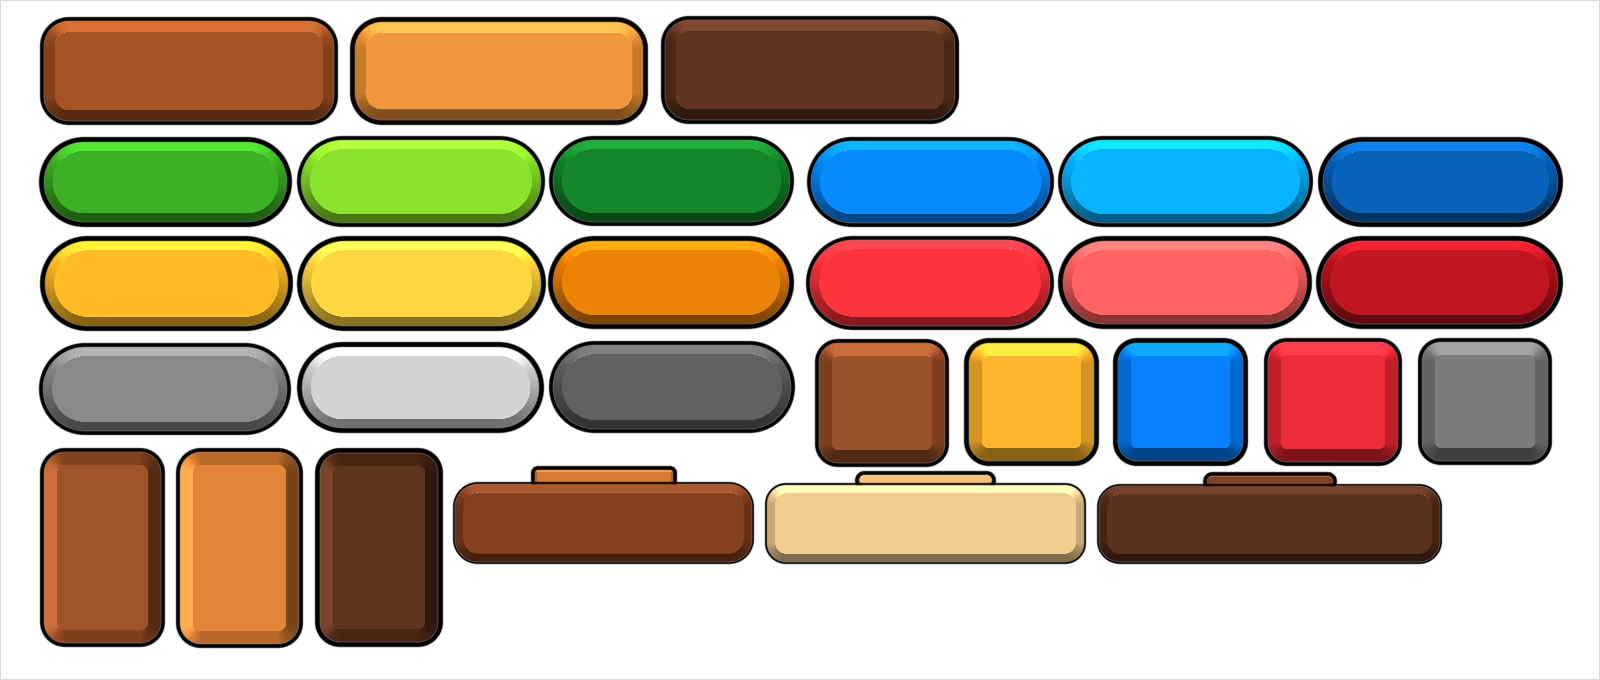
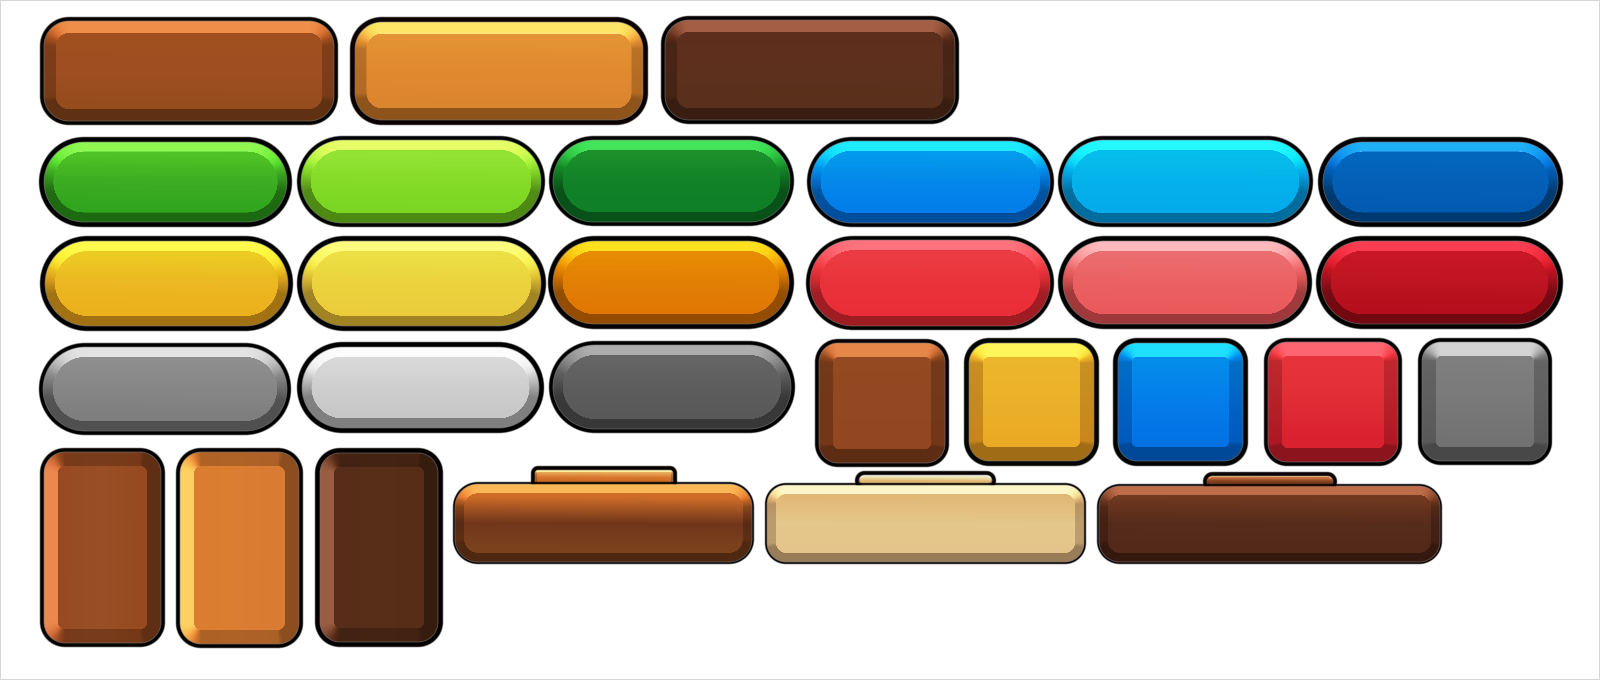
feat(ui): a lit face can be a run of colours, not one
A painted button's body is graded — light at the top, deep at the bottom —
and that grade is a change of colour, not a change of brightness: the light
end is a warmer, yellower green than the dark end. No amount of lighting one
flat colour produces it, which is why the lit faces here have been reading as
flat plastic next to real art.

So `relief` takes a `faceRun` alongside `face`: a run of any number of colours,
lit exactly as one colour was. It goes the way the light falls, so turning the
light still turns everything at once. Where a face has no run, or the atlas is
full, it falls back to the single colour — the same fallback a many-stop
gradient already has.

A lit quad samples no texture of its own, so the run rides in the texture
coordinate and the shadow spread, both of which it was leaving empty.

Two fixes to the light itself, both visible on their own:

The shading is now measured against what facing the light squarely would give,
rather than against nothing. Before, the light's own elevation quietly decided
how much difference it made, so a high light left everything nearly flat and
the strength dial did very little.

Bright ends roll off into white instead of stopping dead at it. Without that
the channel nearest full — green, in almost every green button — flattens to
255 while the others keep climbing, so a lit edge slid towards cyan and ended
in a hard white bar with an edge on it.

Measured against the reference sheet, down the middle of three buttons: the
[…]

diff --git a/composegl-render/src/commonMain/kotlin/dev/wildware/composegl/render/gl/Glsl.kt b/composegl-render/src/commonMain/kotlin/dev/wildware/composegl/render/gl/Glsl.kt
@@ -194,9 +194,15 @@ object GlslSources {
             // A chamfer climbs at one angle and then stops dead, which is the crease along the top
             // of it; softened over the last of the climb so the crease is a line, not a staircase.
             if (kind < 5.5) return 1.0 - smoothstep(0.96, 1.0, along);
-            if (kind < 6.5) return rest / max(sqrt(1.0 - rest * rest), 0.08);  // fillet: rolled
+            // A fillet rolls over, and at the very edge of the roll the surface is nearly on its
+            // side. Left alone that is a normal pointing almost outwards, which catches the light
+            // in a hard white line along the rim; held to a sane angle it is a rolled edge.
+            if (kind < 6.5) return rest / max(sqrt(1.0 - rest * rest), 0.42);
             return rest * 1.6;                                           // dome: curving all the way
         }
+
+        // Where a lit surface stops climbing straight towards white and starts easing into it.
+        const float Knee = 0.8;
 
         void main() {
             vec4 sampled = texture2D(u_texture, v_texCoord);
@@ -235,32 +241,67 @@ object GlslSources {
                 // How polished the surface is decides how tight the shine is: a low number spreads
                 // it across the whole lit side, which is wet-looking plastic, and a high one draws
                 // it to a point, which is glass. It rides in the fill colour's red, unused here.
-                float tightness = mix(2.0, 90.0, clamp(v_color.r, 0.0, 1.0));
+                float tightness = mix(2.0, 60.0, clamp(v_color.r, 0.0, 1.0));
                 float shine = pow(max(dot(normal, halfway), 0.0), tightness) * v_shadowColor.w;
                 float strength = v_gradient.z;
-                float shade = (facing - light.z) * strength;
+                // Measured against what facing the light squarely would give, rather than against
+                // nothing: a flat face is neither lit nor shaded whatever height the light is at,
+                // and a surface turned fully towards it gets the whole of the strength asked for.
+                // Without this the light's own elevation quietly decides how much difference it
+                // makes, and a high light leaves everything nearly flat.
+                float reach = max(1.0 - light.z, 0.2);
+                float shade = clamp((facing - light.z) / reach, -1.0, 1.0) * strength;
 
                 // Given a colour of its own, the light is put on that colour: a lit face is the
                 // same green made brighter, which is what a painted button is. Laid over somebody
                 // else's fill instead, all that can be added is white and black, and white takes
                 // the colour out of a highlight — the thing that makes a drawn button look washed.
                 if (v_shape.x > 0.5) {
+                    // The face's own colour, which may be a run of colours rather than one. Painted
+                    // art almost always grades the body of a button from light at the top to deep at
+                    // the bottom, and that grade is not a brightness: the light end is a different,
+                    // yellower green. Lighting cannot invent that, so the artist names it and the
+                    // light goes on top. The run lies along one row of the atlas, so only u moves,
+                    // and it runs the way the light falls — the same light that shapes the edge.
+                    vec3 base = v_borderColor.rgb;
+                    if (v_shape.y > 0.0) {
+                        // Zero at the lit end of the box and one at the far end, measured along the
+                        // light rather than down the screen, so turning the light turns the run too.
+                        vec2 axis = light.xy;
+                        float span = max(length(axis), 0.0001);
+                        vec2 unit = axis / span;
+                        float across = max(abs(unit.x) * v_halfSize.x + abs(unit.y) * v_halfSize.y, 0.0001);
+                        float down = clamp(0.5 + dot(v_local, unit) / across * 0.5, 0.0, 1.0);
+                        vec2 at = vec2(v_texCoord.x + v_shape.y * down, v_texCoord.y);
+                        vec4 strip = texture2D(u_texture, at);
+                        base = strip.a > 0.0 ? strip.rgb / strip.a : strip.rgb;
+                    }
                     // Lighting a colour is not one multiplication. A lit face climbs fast and
                     // carries a little white with it, the way a bright surface washes towards the
                     // colour of the light; a shaded one falls away more gently and keeps its hue,
                     // because nothing is washing it out. Painted art does both, and a single
                     // multiply in either direction is what makes a drawn button look plastic.
-                    float gain = shade > 0.0 ? 1.0 + shade * 2.2 : 1.0 + shade * 0.9;
-                    vec3 face = v_borderColor.rgb * clamp(gain, 0.0, 4.0);
-                    face = mix(face, vec3(1.0), clamp(shade, 0.0, 1.0) * 0.35);
-                    gl_FragColor = vec4(clamp(face + shine, 0.0, 1.0), v_borderColor.a * coverage);
+                    float gain = shade > 0.0 ? 1.0 + shade * 1.6 : 1.0 + shade * 0.9;
+                    vec3 face = base * clamp(gain, 0.0, 4.0);
+                    face = mix(face, vec3(1.0), clamp(shade, 0.0, 1.0) * 0.25);
+                    // Screened rather than added: a shine climbs towards white and slows as it
+                    // gets there, instead of clipping to a flat white stripe with an edge on it.
+                    face = face + (1.0 - face) * shine;
+                    // Bright ends roll off instead of stopping dead at white. Without this the
+                    // channel nearest full — green, in almost every green button — flattens to 255
+                    // while the others keep climbing, so a lit edge slides towards cyan and then
+                    // ends in a hard white bar with a visible edge on it. Below the knee nothing
+                    // changes at all, so ordinary colour is untouched.
+                    vec3 over = max(face - Knee, 0.0) / (1.0 - Knee);
+                    face = min(face, 1.0 - (1.0 - Knee) * exp(-over));
+                    gl_FragColor = vec4(clamp(face, 0.0, 1.0), v_borderColor.a * coverage);
                     return;
                 }
 
                 vec4 lift = vec4(1.0, 1.0, 1.0, clamp(shade, 0.0, 1.0));
                 vec4 dark = vec4(0.0, 0.0, 0.0, clamp(-shade, 0.0, 1.0));
                 vec4 relief = over(lift, dark);
-                relief.a = max(relief.a, clamp(shine, 0.0, 1.0));
+                relief.a = max(relief.a, clamp(shine, 0.0, 0.8));
                 relief.rgb = mix(relief.rgb, vec3(1.0), clamp(shine, 0.0, 1.0));
                 gl_FragColor = vec4(relief.rgb, relief.a * coverage);
                 return;

diff --git a/composegl-lwjgl3/src/test/kotlin/dev/wildware/composegl/lwjgl3/ReliefGlTest.kt b/composegl-lwjgl3/src/test/kotlin/dev/wildware/composegl/lwjgl3/ReliefGlTest.kt
@@ -3,6 +3,7 @@ package dev.wildware.composegl.lwjgl3
 import dev.wildware.composegl.ui.geometry.Corners
 import dev.wildware.composegl.ui.geometry.Rect
 import dev.wildware.composegl.ui.geometry.Size
+import dev.wildware.composegl.ui.graphics.Brush
 import dev.wildware.composegl.ui.graphics.Colour
 import dev.wildware.composegl.ui.graphics.Relief
 import dev.wildware.composegl.ui.layout.ScalePolicy
@@ -172,5 +173,45 @@ class ReliefGlTest {
             saturation(lit) > saturation(over) + 20,
             "the lit face keeps its green where the overlay washes it: ${lit.toList()} against ${over.toList()}",
         )
+    }
+
+    @Test
+    fun `a face given a run of colours grades across the body, and never clips to white`() {
+        val top = Colour.rgb(0x6ED23C)
+        val bottom = Colour.rgb(0x2E8C18)
+        val run = Brush.Ramp(listOf(Brush.Stop(0.2f, top), Brush.Stop(0.8f, bottom)))
+        // With an atlas: a run of colours is baked onto it, and without one the face falls back to
+        // the single colour, exactly as a many-stop gradient does.
+        val frame = Gl.render {
+            val canvas = GlCanvas(StbFonts(), Gl.gl)
+            try {
+                Gl.gl.clearColor(0f, 0f, 0f, 1f)
+                Gl.gl.clear(GL11.GL_COLOR_BUFFER_BIT)
+                canvas.begin(viewport)
+                canvas.relief(
+                    box, Corners.all(16f), Relief.Chamfer, depth = 18f, light = 90f,
+                    strength = 0.5f, gloss = 0.9f, polish = 0.6f, face = top, faceRun = run,
+                )
+                canvas.end()
+                Gl.readPixels(Gl.size, Gl.size)
+            } finally {
+                canvas.close()
+            }
+        }
+        fun at(y: Int) = frame[y * Gl.size + 110].let {
+            intArrayOf(it shr 16 and 0xFF, it shr 8 and 0xFF, it and 0xFF)
+        }
+
+        // Down the middle of the body, clear of the lit edge at either end.
+        val high = at(70)
+        val low = at(110)
+        assertTrue(high[1] > low[1] + 15, "the body grades: ${high.toList()} at the top, ${low.toList()} lower")
+        assertTrue(low[0] < high[0], "and in every channel, not just the brightest")
+
+        // The whole shape, including the lit edge and the shine on it: a rolled-off highlight keeps
+        // its colour, where one that clips goes flat white and takes the hue with it.
+        val white = (40..140).flatMap { y -> (50..170).map { x -> frame[y * Gl.size + x] } }
+            .count { it shr 16 and 0xFF > 250 && it shr 8 and 0xFF > 250 && it and 0xFF > 250 }
+        assertTrue(white == 0, "nothing burns out to white, but $white pixels did")
     }
 }

diff --git a/composegl-demo/src/main/kotlin/dev/wildware/composegl/demo/docs/MouldedSheet.kt b/composegl-demo/src/main/kotlin/dev/wildware/composegl/demo/docs/MouldedSheet.kt
@@ -38,10 +38,13 @@ internal fun MouldedSheet() {
 private fun Button(piece: Sheet.Piece) {
     val line = piece.outline
     val corner = (piece.corner - line).coerceAtLeast(0f)
-    // Three colours off the original's face, and the light does the rest.
-    val face = listOf(colourAt(piece, 0.16f), colourAt(piece, 0.55f), colourAt(piece, 0.9f))
+    // Three colours off the original's body, and the light does the rest. The body only: the bright
+    // band along the top is the lit edge, and a run that included it would smooth out the crease
+    // the chamfer is there to make.
+    // Each colour stays where it was read, rather than being spread out evenly, so the run holds
+    // its end colours past the last reading instead of carrying on down into the dark lip.
     val run = Brush.Ramp(
-        Brush.evenly(face).let { (it as Brush.Ramp).stops },
+        listOf(0.18f, 0.5f, 0.8f).map { Brush.Stop(it, colourAt(piece, it)) },
         degrees = if (piece.across) 0f else 90f,
     )
     Box(
@@ -60,7 +63,10 @@ private fun Button(piece: Sheet.Piece) {
                 strength = Tuning[2],
                 gloss = Tuning[3],
                 polish = Tuning[4],
-                face = colourAt(piece, 0.55f),
+                // The original's own body colours, lit: the graded body a painted button has is a
+                // change of colour, not a change of brightness, so no amount of lighting one flat
+                // green will make it. The light shapes the edge and puts the shine on top.
+                faceRun = run,
             )
             .borderOutside(Colour.rgb(piece.ink), width = line, corners = Corners.all(corner)),
     )
@@ -72,7 +78,7 @@ private fun Button(piece: Sheet.Piece) {
  *
  * The defaults are where a search against the original settled.
  */
-private val Tuning: FloatArray = (System.getenv("COMPOSEGL_MOULD") ?: "0.11,52,0.75,0.3,0.45,0")
+private val Tuning: FloatArray = (System.getenv("COMPOSEGL_MOULD") ?: "0.12,42,0.4,0.3,0.6,0")
     .split(',').map { it.trim().toFloat() }.toFloatArray()
 
 /** The colour a fraction of the way down the original's face. */

diff --git a/composegl-ui/src/commonMain/kotlin/dev/wildware/composegl/ui/modifier/Elements.kt b/composegl-ui/src/commonMain/kotlin/dev/wildware/composegl/ui/modifier/Elements.kt
@@ -275,6 +275,7 @@ data class ReliefElement(
     val gloss: Float = 0.3f,
     val polish: Float = 0.5f,
     val face: Colour? = null,
+    val faceRun: Brush.Ramp? = null,
 ) : Modifier.Element {
     init {
         require(polish in 0f..1f) { "a surface is between wet and glassy, not $polish" }
@@ -1090,6 +1091,9 @@ fun Modifier.bevel(
  * @param gloss how bright the shine is where the surface faces the light squarely.
  * @param polish how tight that shine is: low spreads it across the whole lit side, which is wet
  *   plastic, and high draws it to a point, which is glass. Drawn game art is usually low.
+ * @param faceRun the face as a run of colours rather than one, lit the same way: the graded body a
+ *   painted button has, which no amount of lighting one flat colour will produce. It runs the way
+ *   the light falls. Overrides [face].
  * @param face the colour to light. Give it the button's colour and leave the background off: a
  *   highlight is then that colour made brighter, which is what a painted button is. Left out, the
  *   light lies over whatever fill is underneath and can only add white, which washes the colour
@@ -1106,7 +1110,8 @@ fun Modifier.relief(
     gloss: Float = 0.3f,
     polish: Float = 0.5f,
     face: Colour? = null,
-) = relief(Corners.single(corner), shape, depth, light, elevation, strength, gloss, polish, face)
+    faceRun: Brush.Ramp? = null,
+) = relief(Corners.single(corner), shape, depth, light, elevation, strength, gloss, polish, face, faceRun)
 
 /** The same, with its own radius on each corner. */
 @Suppress("LongParameterList")
@@ -1120,7 +1125,8 @@ fun Modifier.relief(
     gloss: Float = 0.3f,
     polish: Float = 0.5f,
     face: Colour? = null,
-) = then(ReliefElement(corners, shape, depth, light, elevation, strength, gloss, polish, face))
+    faceRun: Brush.Ramp? = null,
+) = then(ReliefElement(corners, shape, depth, light, elevation, strength, gloss, polish, face, faceRun))
 
 /**
  * One light, lighting the whole box: the bevel, the shine and the shadow all agree about it.

diff --git a/composegl-render/src/commonMain/kotlin/dev/wildware/composegl/render/RenderCanvas.kt b/composegl-render/src/commonMain/kotlin/dev/wildware/composegl/render/RenderCanvas.kt
@@ -358,15 +358,22 @@ open class RenderCanvas protected constructor(
         gloss: Float,
         polish: Float,
         face: Colour,
+        faceRun: Brush.Ramp?,
     ) {
         if (state.isHidden || rect.isEmpty || depth <= 0f || strength <= 0f) return
         val box = state.map(rect)
+        // Where the run of colours sits on the atlas, if there is one and it fitted. A lit quad
+        // samples no texture of its own, so its texture coordinate is free to point at the strip;
+        // if the atlas is full the face falls back to the one colour, which is the run's first.
+        val run = faceRun?.let { atlas?.ramps?.spotFor(it) }
+        val runPage = run?.page
+        val runSize = runPage?.size?.toFloat() ?: 1f
         val grow = state.transformScale
         val radians = light * PiOver180
         val high = elevation * PiOver180
         val flat = cos(high)
         batch().relief(
-            white = white(),
+            white = if (runPage != null) WhiteSpot(runPage.texture(device), 0f, 0f) else white(),
             left = box.left,
             bottom = flip(box.bottom),
             width = box.width,
@@ -388,7 +395,10 @@ open class RenderCanvas protected constructor(
             lightZ = sin(high),
             gloss = gloss,
             polish = polish,
-            face = face.inForce(),
+            face = (if (run != null) Colour.White else face).inForce(),
+            faceU = if (run != null) (run.x + 0.5f) / runSize else 0f,
+            faceV = if (run != null) (run.y + 0.5f) / runSize else 0f,
+            faceWidth = if (run != null) (GradientRamps.Texels - 1f) / runSize else 0f,
             aa = antialias,
         )
     }

diff --git a/composegl-render/src/commonMain/kotlin/dev/wildware/composegl/render/QuadBatch.kt b/composegl-render/src/commonMain/kotlin/dev/wildware/composegl/render/QuadBatch.kt
@@ -200,6 +200,9 @@ class QuadBatch(private val device: GpuDevice, private val maxQuads: Int = 2048)
         gloss: Float,
         polish: Float,
         face: Colour,
+        faceU: Float,
+        faceV: Float,
+        faceWidth: Float,
         aa: Float,
     ) {
         val halfWidth = width / 2f
@@ -218,7 +221,9 @@ class QuadBatch(private val device: GpuDevice, private val maxQuads: Int = 2048)
             top = bottom + height + aa,
             centreX = left + halfWidth,
             centreY = bottom + halfHeight,
-            u = white.u, v = white.v, u2 = white.u, v2 = white.v,
+            // Where the face's run of colours starts on the atlas, if it has one. A lit quad has
+            // no texture of its own, so the texture coordinate is free to point at the strip.
+            u = faceU, v = faceV, u2 = faceU, v2 = faceV,
             // Opaque white but for the red, which carries how polished the surface is.
             fill = Colour(255, (polish.coerceIn(0f, 1f) * 255f).toInt(), 255, 255),
             border = face,
@@ -234,7 +239,9 @@ class QuadBatch(private val device: GpuDevice, private val maxQuads: Int = 2048)
             radii = radii,
             // A width of one says the quad paints the face colour rather than lying over a fill.
             borderWidth = if (face.alpha > 0) 1f else 0f,
-            shadowSpread = 0f,
+            // How far along the atlas row the run of colours reaches. Zero says the face is one
+            // colour; a lit quad casts no shadow, so the spread is free to say it.
+            shadowSpread = faceWidth,
             aa = aa,
             gradient = kind,
             gradientX = bevel,

diff --git a/composegl-ui/src/commonMain/kotlin/dev/wildware/composegl/ui/graphics/UiCanvas.kt b/composegl-ui/src/commonMain/kotlin/dev/wildware/composegl/ui/graphics/UiCanvas.kt
@@ -204,6 +204,10 @@ interface UiCanvas {
      *   Given a colour, a highlight is that colour made brighter, which is what a painted button
      *   is; over somebody else's fill the light can only add white, and white takes the colour out
      *   of a highlight. Give it the face and leave the background off.
+     * @param faceRun the face as a run of colours instead of one, lit the same way. Painted art
+     *   almost always grades the body of a button, and the grade is not a brightness: the light end
+     *   is usually a different, warmer colour, which lighting cannot invent. The run goes the way
+     *   the light falls, so one light still decides everything. Overrides [face] when given.
      */
     @Suppress("LongParameterList")
     fun relief(
@@ -217,6 +221,7 @@ interface UiCanvas {
         gloss: Float = 0.3f,
         polish: Float = 0.5f,
         face: Colour = Colour.Transparent,
+        faceRun: Brush.Ramp? = null,
     ) {
         // Nothing, honestly: see shadesInside.
     }

diff --git a/composegl-ui/src/commonMain/kotlin/dev/wildware/composegl/ui/draw/DrawPass.kt b/composegl-ui/src/commonMain/kotlin/dev/wildware/composegl/ui/draw/DrawPass.kt
@@ -724,6 +724,7 @@ class DrawPass(val canvas: UiCanvas) {
                 minOf(rect.width, rect.height) * element.depth,
                 element.light, element.elevation, element.strength, element.gloss, element.polish,
                 element.face ?: Colour.Transparent,
+                element.faceRun,
             )
             is BrushBackgroundElement -> canvas.box(rect, element.brush, element.corners)
             is NinePatchElement -> element.patch.drawInto(canvas, rect, element.tint)

diff --git a/composegl-ui/src/commonMain/kotlin/dev/wildware/composegl/ui/node/Dump.kt b/composegl-ui/src/commonMain/kotlin/dev/wildware/composegl/ui/node/Dump.kt
@@ -198,6 +198,7 @@ fun describe(element: Modifier.Element): String = when (element) {
     is ReliefElement -> buildString {
         append("relief(${element.shape.name.lowercase()} deep ${describeNumber(element.depth)}")
         append(" light ${describeNumber(element.light)} up ${describeNumber(element.elevation)}")
+        element.faceRun?.let { append(" run of ${it.stops.size}") }
         append("${corners(element.corners)})")
     }
     is MouldedElement -> buildString {
